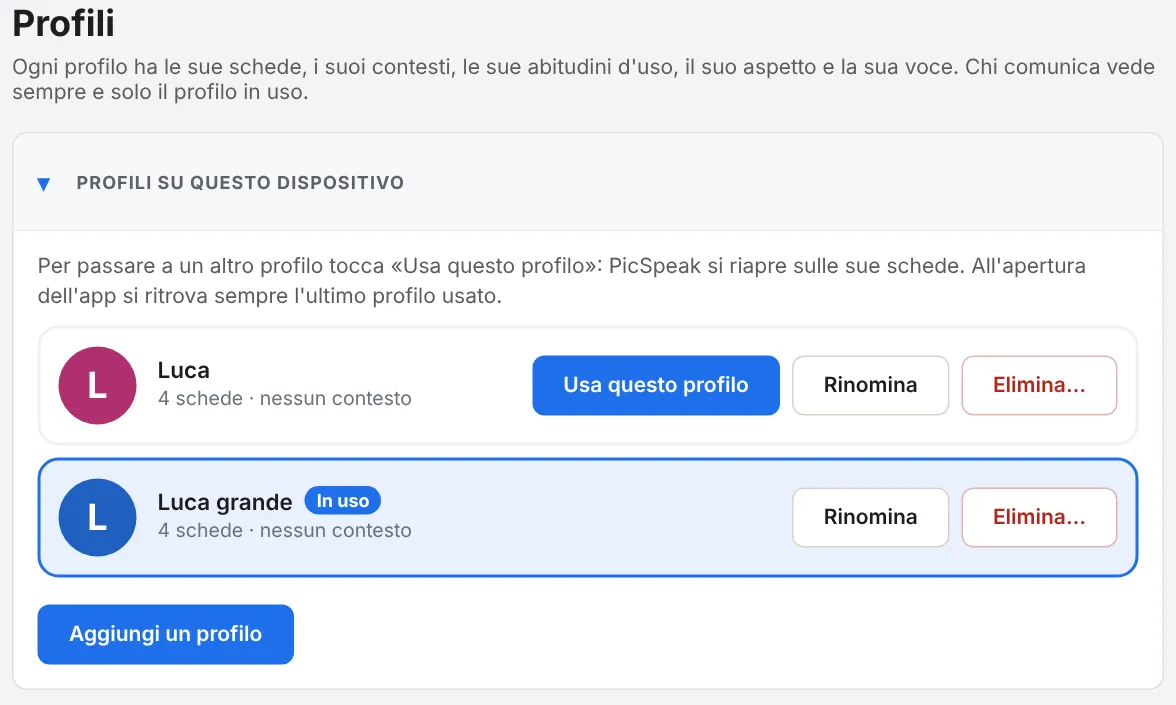
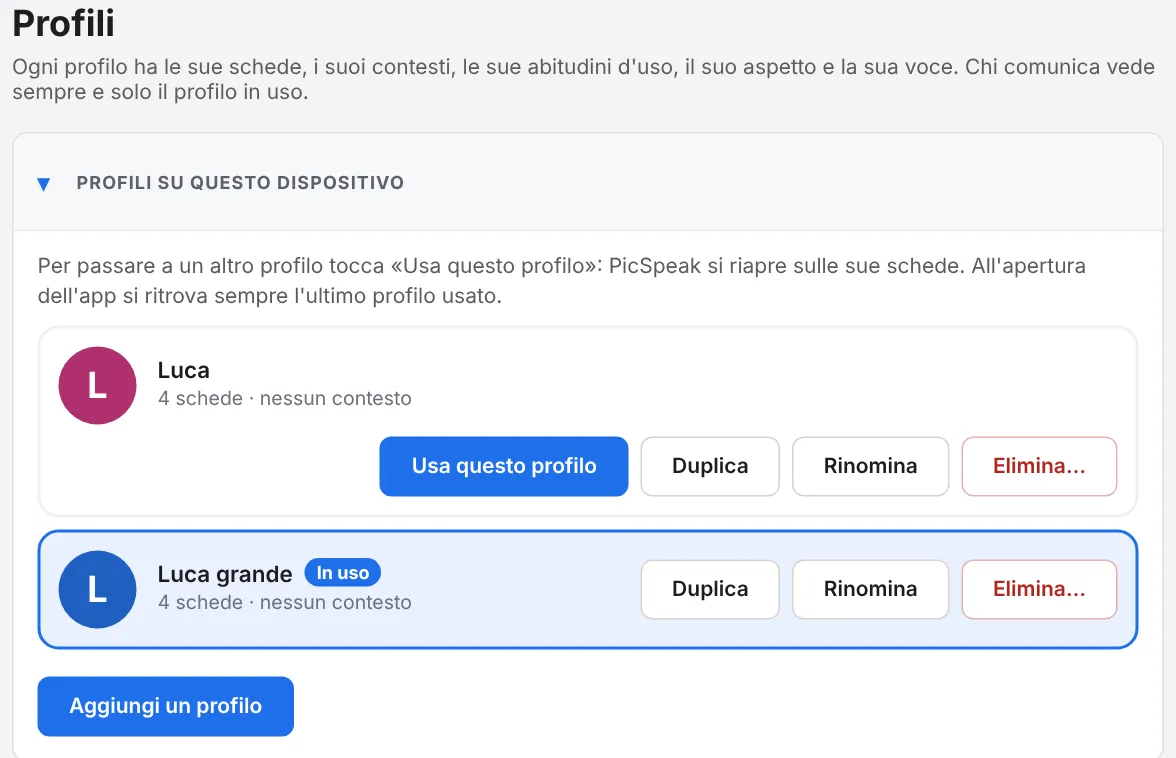
anteprima: claude/project-thread-w440di @ 7accb95

diff --git a/js/profiles.js b/js/profiles.js
@@ -6,7 +6,7 @@
  *
  * L'app si apre sempre sull'ultimo profilo usato, senza schermate di scelta: il bambino non può cambiarlo.
  * Il cambio si fa solo nelle Impostazioni (protette dal PIN), categoria «Profili»: usa, aggiungi (con le schede
- * di partenza o come copia del profilo in uso), rinomina, elimina. Per cambiare profilo la pagina si ricarica:
+ * di partenza), duplica (anche un profilo non in uso), rinomina, elimina. Per cambiare profilo la pagina si ricarica:
  * ogni parte dell'app riparte pulita con le scelte del nuovo profilo, e si torna in questa pagina.
  * Tutto il testo entra nel DOM con textContent/createElement (mai innerHTML con dati).
  */
@@ -87,13 +87,16 @@
   }
 
   /*
-   * Copia identica del profilo in uso: schede (tessere negli stessi posti, cartelle che puntano alle nuove
-   * schede), contesti, abitudini d'uso e scelte. Le immagini restano in comune.
+   * Copia identica di un profilo qualsiasi, in uso o no: schede (tessere negli stessi posti, cartelle che puntano
+   * alle nuove schede), contesti, abitudini d'uso e scelte. Le immagini restano in comune.
    */
-  async function duplicateCurrent(name) {
-    const source = data.profile;
+  async function duplicateProfile(sourceId, name) {
+    const isCurrent = sourceId === data.profile.id;
+    const source = isCurrent ? data.profile : await storage.getRecord('profiles', sourceId);
+    if (!source) throw new Error('profile-missing');
     const id = storage.newProfileId();
-    if (predict) await predict.flush();
+    // Per il profilo in uso si salvano prima le abitudini ancora in memoria
+    if (isCurrent && predict) await predict.flush();
 
     const [allPages, allContexts, usage, settings] = await Promise.all([
       storage.getAllRecords('pages'),
@@ -252,45 +255,43 @@
       await ui.runDialog({ title: fmt('profileTooMany', { n: MAX_PROFILES }), primary: t('close') });
       return;
     }
-    // 1. Come inizia: schede di partenza oppure copia del profilo in uso
-    const choice = await ui.runPanelDialog({
-      title: t('profileAddTitle'),
-      help: t('profileAddHelp'),
-      className: 'profile-add-dialog',
-      build: (close) => {
-        const box = el('div', 'profile-choices');
-        const option = (titleText, helpText, value) => {
-          const btn = el('button', 'profile-choice');
-          btn.type = 'button';
-          btn.append(el('strong', '', titleText), el('span', '', helpText));
-          btn.addEventListener('click', () => close(value));
-          return btn;
-        };
-        box.append(
-          option(t('profileAddStart'), t('profileAddStartHelp'), 'start'),
-          option(fmt('profileAddCopy', { name: displayName(data.profile) }), t('profileAddCopyHelp'), 'copy'),
-        );
-        return box;
-      },
-    });
-    if (choice !== 'start' && choice !== 'copy') return;
-
-    // 2. Nome
-    const suggested = choice === 'copy' ? cleanName(fmt('profileCopyName', { name: displayName(data.profile) })) : '';
     const name = await askName({
       title: t('profileAddTitle'),
-      help: t('profileNameHelp'),
-      value: nameTaken(list, suggested) ? '' : suggested,
+      help: t('profileAddHelp'),
+      value: '',
       primary: t('profileCreateBtn'),
       list,
     });
     if (!name) return;
     try {
-      const id = choice === 'copy' ? await duplicateCurrent(name) : await createStarter(name);
-      await switchTo(id);
+      await switchTo(await createStarter(name));
     } catch (error) {
       await failed();
     }
+  }
+
+  // Duplica: il nuovo profilo compare nell'elenco, quello in uso resta lo stesso
+  async function duplicate(entry, list) {
+    if (list.length >= MAX_PROFILES) {
+      await ui.runDialog({ title: fmt('profileTooMany', { n: MAX_PROFILES }), primary: t('close') });
+      return;
+    }
+    const sourceName = displayName(entry.profile);
+    const suggested = cleanName(fmt('profileCopyName', { name: sourceName }));
+    const name = await askName({
+      title: fmt('profileDuplicateTitle', { name: sourceName }),
+      help: fmt('profileDuplicateHelp', { name: sourceName }),
+      value: nameTaken(list, suggested) ? '' : suggested,
+      primary: t('profileDuplicateBtn'),
+      list,
+    });
+    if (!name) return;
+    try {
+      await duplicateProfile(entry.profile.id, name);
+    } catch (error) {
+      await failed();
+    }
+    ui.render();
   }
 
   async function renameProfile(entry, list) {
@@ -417,7 +418,10 @@
         try { await switchTo(profile.id); } catch (error) { await failed(); }
       }, true));
     }
-    actions.append(ui.button(t('profileRename'), () => renameProfile(entry, list), false));
+    actions.append(
+      ui.button(t('profileDuplicate'), () => duplicate(entry, list), false),
+      ui.button(t('profileRename'), () => renameProfile(entry, list), false),
+    );
     if (list.length > 1) {
       const del = ui.button(t('profileDelete'), () => deleteProfile(entry, list), false);
       del.classList.add('dlg-btn-danger');

diff --git a/guida.html b/guida.html
@@ -272,7 +272,7 @@
         <caption>Cosa trovate in ogni categoria</caption>
         <tbody>
           <tr><th scope="row">Generale</th><td>lingua, ricerca online dei simboli, installare come app, guida, crediti</td></tr>
-          <tr><th scope="row">Profili</th><td>le persone che usano PicSpeak su questo dispositivo: usare, aggiungere, rinominare, eliminare un profilo</td></tr>
+          <tr><th scope="row">Profili</th><td>le persone che usano PicSpeak su questo dispositivo: usare, aggiungere, duplicare, rinominare, eliminare un profilo</td></tr>
           <tr><th scope="row">Aspetto</th><td>stili pronti, colori, sfondo, simboli, testo, celle, posizione della frase, gesti</td></tr>
           <tr><th scope="row">Tocco e frase</th><td>pulsanti «Ops» e «Aiuto», frasi rapide, tempo di pressione, tocchi ripetuti, comportamento della frase</td></tr>
           <tr><th scope="row">Schede</th><td>schede pronte, i miei modelli, importa ed esporta, altre app, stampa, disposizione e posizioni, colori per tipo di parola</td></tr>
@@ -573,15 +573,18 @@
         le sue schede e non può cambiare profilo. Quando i profili sono più di uno, nella barra delle impostazioni
         sbloccate compare il nome del profilo in uso, così si modificano sempre le schede della persona giusta.</p>
       <figure class="shot">
-        <img src="guida/profili.webp" width="1176" height="705" alt="La pagina Profili con due profili: Luca, con i pulsanti Usa questo profilo, Rinomina ed Elimina, e Luca grande, evidenziato con la scritta In uso. Sotto, il pulsante Aggiungi un profilo." loading="lazy">
+        <img src="guida/profili.webp" width="1176" height="758" alt="La pagina Profili con due profili: Luca, con i pulsanti Usa questo profilo, Duplica, Rinomina ed Elimina, e Luca grande, evidenziato con la scritta In uso e i pulsanti Duplica, Rinomina ed Elimina. Sotto, il pulsante Aggiungi un profilo." loading="lazy">
       </figure>
       <ol class="steps">
         <li><strong>Passare a un altro profilo</strong>: toccate <strong>Usa questo profilo</strong> accanto al nome.
           PicSpeak si riapre sulle sue schede e resta nella pagina Profili, senza chiedere di nuovo il PIN.</li>
-        <li><strong>Aggiungere un profilo</strong>: toccate <strong>Aggiungi un profilo</strong> e scegliete come inizia.
-          <em>Con le schede di partenza</em> parte dalle schede della prima apertura, con aspetto e voce iniziali (le
-          schede pronte, come Base 36 o Base 60, si scelgono poi in Schede). <em>Copia di…</em> fa una copia identica del
-          profilo in uso. Poi scrivete il nome e toccate <strong>Crea e usa questo profilo</strong>.</li>
+        <li><strong>Aggiungere un profilo nuovo</strong>: toccate <strong>Aggiungi un profilo</strong>, scrivete il nome e
+          toccate <strong>Crea e usa questo profilo</strong>. Parte dalle schede della prima apertura, con aspetto e voce
+          iniziali; le schede pronte, come Base 36 o Base 60, si scelgono poi in Schede.</li>
+        <li><strong>Duplicare un profilo</strong>: toccate <strong>Duplica</strong> accanto al profilo da copiare, anche
+          se non è quello in uso, scrivete il nome e toccate <strong>Duplica</strong>. Il nuovo profilo è uguale
+          all’originale (schede con le tessere negli stessi posti, contesti, abitudini d’uso, aspetto e voce) e compare
+          nell’elenco; l’originale non cambia. Per usarlo toccate <strong>Usa questo profilo</strong>.</li>
         <li><strong>Cambiare il nome</strong>: toccate <strong>Rinomina</strong>. Il nome lo vede solo l’adulto: meglio un
           soprannome o le iniziali che nome e cognome.</li>
         <li><strong>Eliminare un profilo</strong>: toccate <strong>Elimina…</strong>. Si cancellano per sempre le sue
@@ -595,7 +598,7 @@
       <p class="tip"><strong>Far crescere la tabella insieme alla persona.</strong> Per i cambiamenti di tutti i giorni
         restate sullo stesso profilo: aggiungete tessere o nascondetele e mostratele un po’ alla volta, senza spostare
         quelle che la persona conosce già (vedi <a href="#posizioni">Tenere le tessere sempre allo stesso posto</a>).
-        Per un passo più grande, per esempio una griglia con molte più tessere, usate <em>Copia di…</em>: la copia ha
+        Per un passo più grande, per esempio una griglia con molte più tessere, usate <strong>Duplica</strong>: la copia ha
         le tessere negli stessi posti e le stesse abitudini d’uso, così i suggerimenti non ripartono da zero. Preparate
         con calma la copia e passate a quella quando la persona è pronta; il profilo di prima resta come riserva
         finché non lo eliminate.</p>

diff --git a/js/i18n.js b/js/i18n.js
@@ -266,12 +266,12 @@
       profileAdd: 'Aggiungi un profilo',
       profileOnlyOne: 'Con un solo profilo il pulsante «Elimina» non c\'è: per ricominciare da zero usa «Cancella tutto» in Backup e ripristino.',
       profileAddTitle: 'Nuovo profilo',
-      profileAddHelp: 'Come inizia il nuovo profilo? Gli altri profili non cambiano.',
-      profileAddStart: 'Con le schede di partenza',
-      profileAddStartHelp: 'Le schede della prima apertura, con aspetto e voce iniziali. Le schede pronte (per esempio Base 36 o Base 60) si scelgono poi in Schede.',
-      profileAddCopy: 'Copia di «{name}»',
-      profileAddCopyHelp: 'Tutto uguale al profilo in uso: schede con le tessere negli stessi posti, contesti, abitudini d\'uso, aspetto e voce. Utile per preparare con calma un passo successivo.',
+      profileAddHelp: 'Il nuovo profilo parte dalle schede della prima apertura, con aspetto e voce iniziali. Le schede pronte (per esempio Base 36 o Base 60) si scelgono poi in Schede. Per partire da un profilo che c\'è già, usate «Duplica» accanto al suo nome.',
       profileCopyName: '{name} (copia)',
+      profileDuplicate: 'Duplica',
+      profileDuplicateTitle: 'Duplica «{name}»',
+      profileDuplicateHelp: 'Il nuovo profilo è uguale a «{name}»: schede con le tessere negli stessi posti, contesti, abitudini d\'uso, aspetto e voce. «{name}» non cambia. Il nuovo profilo compare nell\'elenco: per usarlo toccate «Usa questo profilo».',
+      profileDuplicateBtn: 'Duplica',
       profileNameLabel: 'Nome',
       profileNameHelp: 'Il nome lo vede solo l\'adulto: nell\'elenco dei profili, nella barra delle impostazioni e nel nome dei backup.',
       profileCreateBtn: 'Crea e usa questo profilo',
@@ -1148,12 +1148,12 @@
       profileAdd: 'Add a profile',
       profileOnlyOne: 'With only one profile there is no «Delete» button: to start again from scratch use «Delete everything» in Backup and restore.',
       profileAddTitle: 'New profile',
-      profileAddHelp: 'How does the new profile start? The other profiles do not change.',
-      profileAddStart: 'With the starter boards',
-      profileAddStartHelp: 'The boards of the first launch, with the initial appearance and voice. Ready-made boards (for example Core 36 or Core 60) can then be chosen in Boards.',
-      profileAddCopy: 'Copy of «{name}»',
-      profileAddCopyHelp: 'Everything the same as the profile in use: boards with tiles in the same places, contexts, usage habits, appearance and voice. Useful to calmly prepare a next step.',
+      profileAddHelp: 'The new profile starts from the boards of the first launch, with the initial appearance and voice. Ready-made boards (for example Core 36 or Core 60) can then be chosen in Boards. To start from an existing profile, use «Duplicate» next to its name.',
       profileCopyName: '{name} (copy)',
+      profileDuplicate: 'Duplicate',
+      profileDuplicateTitle: 'Duplicate «{name}»',
+      profileDuplicateHelp: 'The new profile is the same as «{name}»: boards with tiles in the same places, contexts, usage habits, appearance and voice. «{name}» does not change. The new profile appears in the list: to use it tap «Use this profile».',
+      profileDuplicateBtn: 'Duplicate',
       profileNameLabel: 'Name',
       profileNameHelp: 'Only the adult sees the name: in the list of profiles, in the settings bar and in the name of backups.',
       profileCreateBtn: 'Create and use this profile',

diff --git a/css/style.css b/css/style.css
@@ -2197,26 +2197,6 @@ body > .adult-bar { order: 0; }
 .profile-actions { flex-wrap: wrap; justify-content: flex-end; margin-left: auto; }
 .profile-add { width: calc(100% - 32px); margin: 14px 0 6px; }
 .profile-only { margin-top: 6px; }
-/* Finestra «Nuovo profilo»: due scelte grandi */
-.profile-choices { display: flex; flex-direction: column; gap: 10px; margin: 8px 0 4px; }
-.profile-choice {
-  display: flex;
-  flex-direction: column;
-  gap: 4px;
-  min-height: 64px;
-  padding: 14px 16px;
-  border: 2px solid var(--border);
-  border-radius: 14px;
-  background: var(--surface);
-  color: var(--text);
-  font: inherit;
-  text-align: left;
-  cursor: pointer;
-}
-.profile-choice strong { font-size: 17px; }
-.profile-choice span { font-size: 14px; color: var(--text-muted); line-height: 1.35; }
-.profile-choice:hover { border-color: var(--focus); }
-.profile-choice:focus-visible { outline: 3px solid var(--focus); outline-offset: 2px; }
 @media (max-width: 720px) {
   .profile-list .setting-row.profile-row { flex-direction: column; align-items: stretch; }
   .profile-who { flex: none; }

diff --git a/sw.js b/sw.js
@@ -3,7 +3,7 @@
  * Strategia "prima la rete": online si riceve sempre l'ultima versione,
  * offline si usa la copia salvata. Cambiare CACHE_VERSION quando si aggiungono file.
  */
-const CACHE_VERSION = 'picspeak-anteprima-v52';
+const CACHE_VERSION = 'picspeak-anteprima-v53';
 // I pacchetti di simboli scaricati dall'adulto (Mulberry, OpenMoji) e gli indici delle fonti online (Twemoji)
 // stanno in cache separate ("picspeak-pack-…"), mai cancellate dagli aggiornamenti
 
